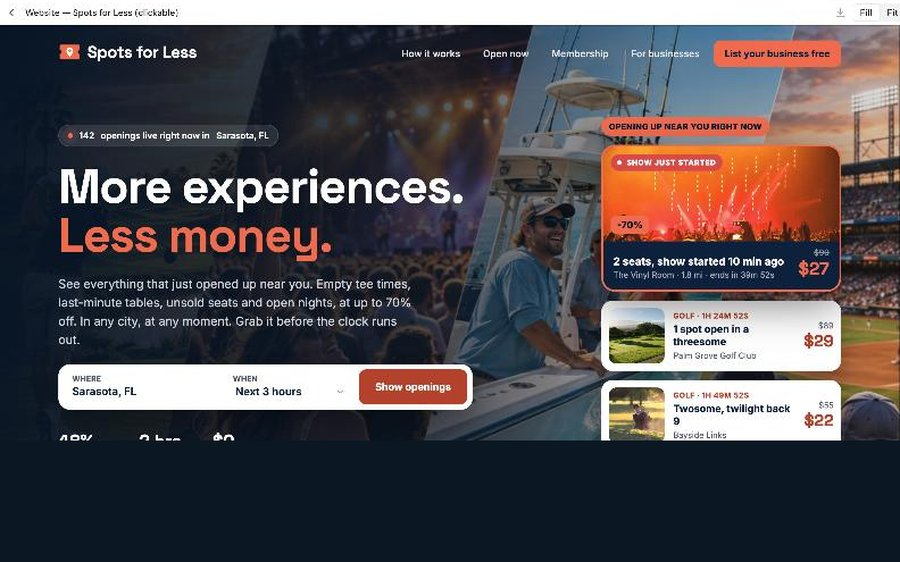
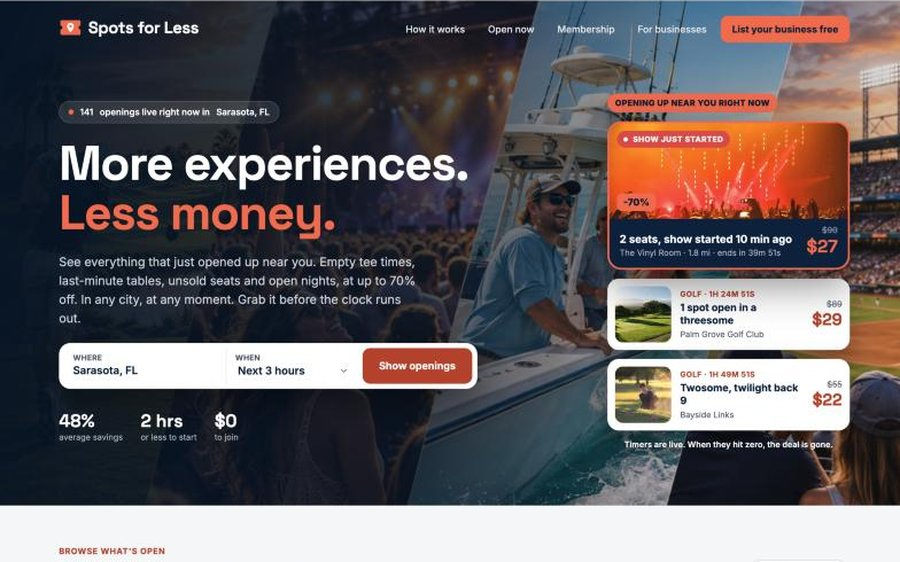
Full-page scrollable previews for Pure Green and Spots For Less
Claude-Session: https://claude.ai/code/session_012Zoqt3aqXtiKGzbzyCwgsS

diff --git a/index.html b/index.html
@@ -282,14 +282,14 @@ const P=[
   about:'Global Wheel Source is our own wheel business, in wheels since 2001. The site sells wheel & tire packages from multiple suppliers, offers financing at checkout, and has an AI sales assistant answering fitment questions around the clock. A real person calls every customer before an order ships.',
   features:['Wheel & tire package finder','Multi-vendor catalog from supplier feeds','Financing at checkout (Affirm, Snap, Klarna, Afterpay)','AI sales assistant on site and Messenger','Returns & Warranty request form'],
   stack:['WordPress','WooCommerce','Custom feed plugin','Stripe + Affirm']},
- {slug:'spotdrop',design:'https://claude.ai/artifact/2u7tk1Qj3kVFLkstvta6mw',shot:'img/spotdrop.jpg',full:'img/spotdrop-full.jpg',name:'Spots For Less',domain:'Domain TBD',status:'sale',cat:'Marketplace',
+ {slug:'spotdrop',design:'https://claude.ai/artifact/2u7tk1Qj3kVFLkstvta6mw',shot:'img/spotdrop.jpg?v=2',full:'img/spotdrop-full.jpg?v=2',name:'Spots For Less',domain:'Domain TBD',status:'sale',cat:'Marketplace',
   short:'More experiences. Less money. Last-minute tee times, empty tables, unsold seats and open nights nearby, at up to 70% off.',
   thumbBg:'linear-gradient(135deg,#0f5132,#1f9d6b)',
   about:'Spots For Less lists things that are running out of time to fill: a tee time in 2 hours, an empty restaurant table, an open detail slot. People nearby bid what they want to pay, and businesses fill dead space instead of losing it. Free for businesses to list; a small cut only when a spot fills.',
   features:['"Around me right now" feed','Bid-your-price on any spot','Phone alerts when something drops nearby','Free business sign-up, pay only on fill','Simple booking for courses with no online tee sheet'],
   stack:['Web app','Phone app (installable)','Map + alerts']}
 ,
- {slug:'pure-green',design:'https://claude.ai/artifact/1kfUxVxgupfp9A18UfNSBt',shot:'img/pure-green.jpg',full:'img/pure-green-full.jpg',name:'Pure Green Landscaping',domain:'Sarasota, FL',status:'client',cat:'Revamp',
+ {slug:'pure-green',design:'https://claude.ai/artifact/1kfUxVxgupfp9A18UfNSBt',shot:'img/pure-green.jpg',full:'img/pure-green-full.jpg?v=2',name:'Pure Green Landscaping',domain:'Sarasota, FL',status:'client',cat:'Revamp',
   short:'A bright, clean site for a family-owned Sarasota landscaping company, with free estimates booked right on an online calendar.',
   thumbBg:'linear-gradient(135deg,#e9f7ee,#bfe8cf)',
   about:'Pure Green Landscaping is a small family-owned landscaping company in Sarasota. The site is built to say "integrity and the job done right" to high-end homeowners: bright, clean and modern, with every service laid out and a calendar where customers pick a day and time for a free estimate.',
